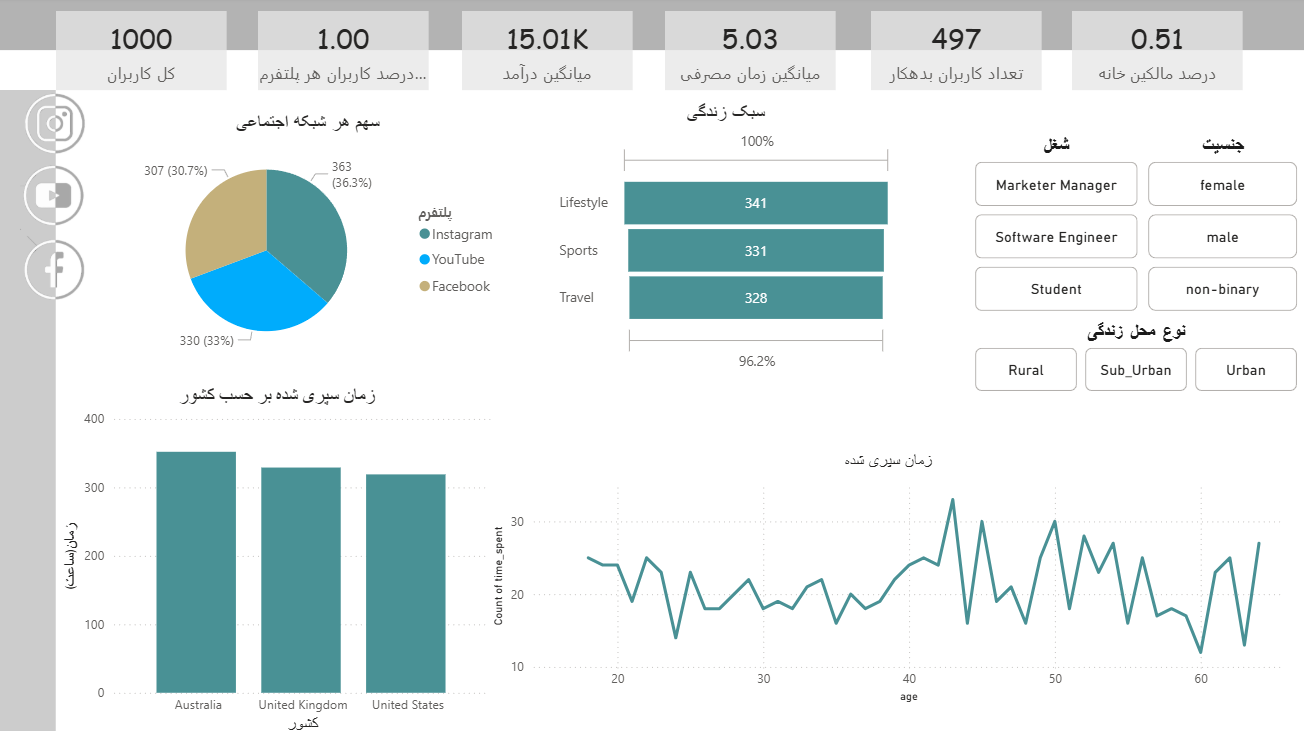
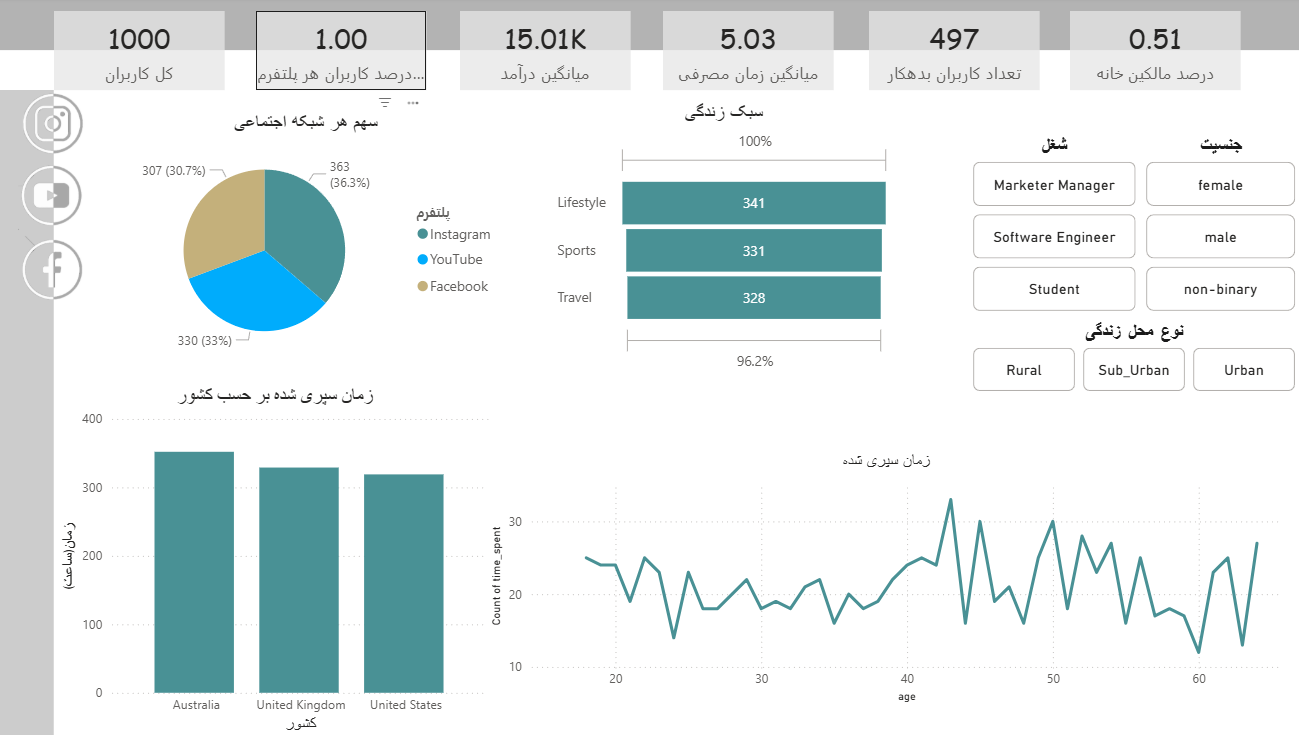
Readme Added

diff --git a/SocialMediaDashboard/README.md b/SocialMediaDashboard/README.md
@@ -1,0 +1,109 @@
+![نمایی از داشبورد](images/dash1.png)
+
+---
+
+# داشبورد فروش
+
+## معرفی
+
+این مخزن شامل یک داشبورد پاور بیآی بسیار زیبا و کاربردی است که برای تحلیل مجموعه داده فروش طراحی شده است. این داشبورد با بهرهگیری از مدلسازی داده پیشرفته و DAX (عبارات تحلیل داده) دیدی عمیق نسبت به عملکرد فروش، رفتار مشتریان و روند محصولات ارائه میدهد و تجربهای تعاملی و روان فراهم میکند.
+
+---
+
+## مدلسازی داده
+
+مجموعه داده شامل سه شیت اصلی است: **سفارشات (Orders)**، **مرجوعیها (Returns)** و **هدفها (Target)** که به دقت مدلسازی شدهاند تا پرسوجوهای سریع و نمایشهای معنادار را ممکن سازند:
+
+* **ساختار داده نرمال شده:**
+
+  * ارتباط بین شیت سفارشات و مرجوعیها بر اساس شناسه سفارش (Order ID) برای پیگیری دقیق مرجوعیها.
+  * ادغام شیت هدف برای مقایسه فروش واقعی با اهداف تعیین شده در دستهبندیهای مبلمان، لوازم اداری و فناوری.
+
+* **روابط:**
+
+  * پیادهسازی مدل ستارهای (Star Schema) با جدول سفارشات به عنوان جدول واقعیت (Fact Table) و ابعاد مرتبط مانند محصول، مشتری و جغرافیا.
+  * این ساختار عملکرد را بهینه کرده و امکان فیلترهای پویا در نمودارها را فراهم میکند.
+
+* **پاکسازی دادهها:**
+
+  * رسیدگی به مقادیر گمشده، استانداردسازی فرمت تاریخها (تبدیل تاریخهای اکسل به فرمت قابل خواندن) و حذف دادههای تکراری برای تضمین کیفیت داده.
+
+* **ستونهای محاسباتی:**
+
+  * افزودن ستونهایی مانند فروش خالص (با در نظر گرفتن تخفیفها) و حاشیه سود برای تحلیل بهتر.
+
+---
+
+## پیادهسازی DAX
+
+عبارات DAX نقش کلیدی در ایجاد محاسبات پیچیده و معیارهای پویا داشتند:
+
+* **معیارهای کلیدی (KPI):**
+  ساخت معیارهایی مانند فروش کل، سود کل و نرخ بازگشت.
+
+  ```DAX
+  Total Sales = SUM('Orders'[Sales]) * (1 - AVERAGE('Orders'[Discount]))
+  ```
+
+* **هوش زمانی:**
+  استفاده از توابعی مانند `DATEADD` و `TOTALYTD` برای تحلیل روندهای فروش در طول زمان و مقایسه سال به سال.
+
+  ```DAX
+  Sales YoY Growth = DIVIDE(
+      [Total Sales] - CALCULATE([Total Sales], DATEADD('Orders'[Order Date], -1, YEAR)),
+      CALCULATE([Total Sales], DATEADD('Orders'[Order Date], -1, YEAR))
+  )
+  ```
+
+* **منطق شرطی:**
+  پیادهسازی فیلترها و تحلیل سناریوهای خاص مانند فروش بر اساس نوع مشتری یا دسته محصول با استفاده از `CALCULATE` و `FILTER`.
+
+* **مقایسه با هدف:**
+  ایجاد معیارهایی برای مقایسه فروش واقعی با اهداف موجود در شیت هدف:
+
+  ```DAX
+  Sales vs Target = [Total Sales] - LOOKUPVALUE('Target'[Target Sales], 'Target'[Category], 'Orders'[Category])
+  ```
+
+---
+
+## ویژگیهای داشبورد
+
+این داشبورد هم از نظر ظاهر و هم عملکرد بسیار قوی طراحی شده است:
+
+* **ویژوالهای تعاملی:**
+  نمودارهای میلهای، خطی و نقشههای جغرافیایی برای نمایش فروش، سود و مرجوعیها بر اساس منطقه، نوع مشتری و دسته محصول.
+
+* **برشگرها و فیلترهای پویا:**
+  برشگرهای تعاملی برای تاریخ سفارش، دستهبندی و نوع مشتری جهت کاوش دقیقتر دادهها.
+
+* **طراحی مدرن:**
+  استفاده از پالت رنگی مدرن، تایپوگرافی یکپارچه و چیدمان ساده و قابل فهم برای افزایش تجربه کاربری.
+
+* **بینشهای کلیدی:**
+  نمایش محصولات پرفروش، مناطق با نرخ بازگشت بالا و سودآوری بر اساس بخشهای مشتری، همراه با راهنماییهای دقیق.
+
+---
+
+## نکته جالب
+
+یکی از یافتههای جالب این بود که تخفیفها تاثیر چشمگیری بر سودآوری دارند؛ به عنوان مثال، تخفیفهای سنگین روی محصولات فناوری (مثل تلفن Cisco IP Phone) باعث شده حاشیه سود منفی شود که نیازمند استراتژی قیمتگذاری بهتر است.
+
+---
+
+## نحوه استفاده
+
+1. این مخزن را کلون کنید.
+2. فایل `.pbix` را در Power BI Desktop باز کنید.
+3. مجموعه داده (`sale_total.xlsx`) را بارگذاری کنید یا به منبع داده مشابه متصل شوید.
+4. داشبورد را با استفاده از برشگرها، کاوشهای عمقی و ویژوالهای تعاملی بررسی کنید.
+
+---
+
+## بهبودهای آینده
+
+* استفاده از قابلیتهای هوش مصنوعی Power BI برای پیشبینی روند فروش.
+* افزودن تحلیلهای زمانی دقیقتر مثل ماهانه یا فصلی.
+* بهبود دسترسی با افزودن تمهای کنتراست بالا و پشتیبانی از صفحهخوان.
+
+---
